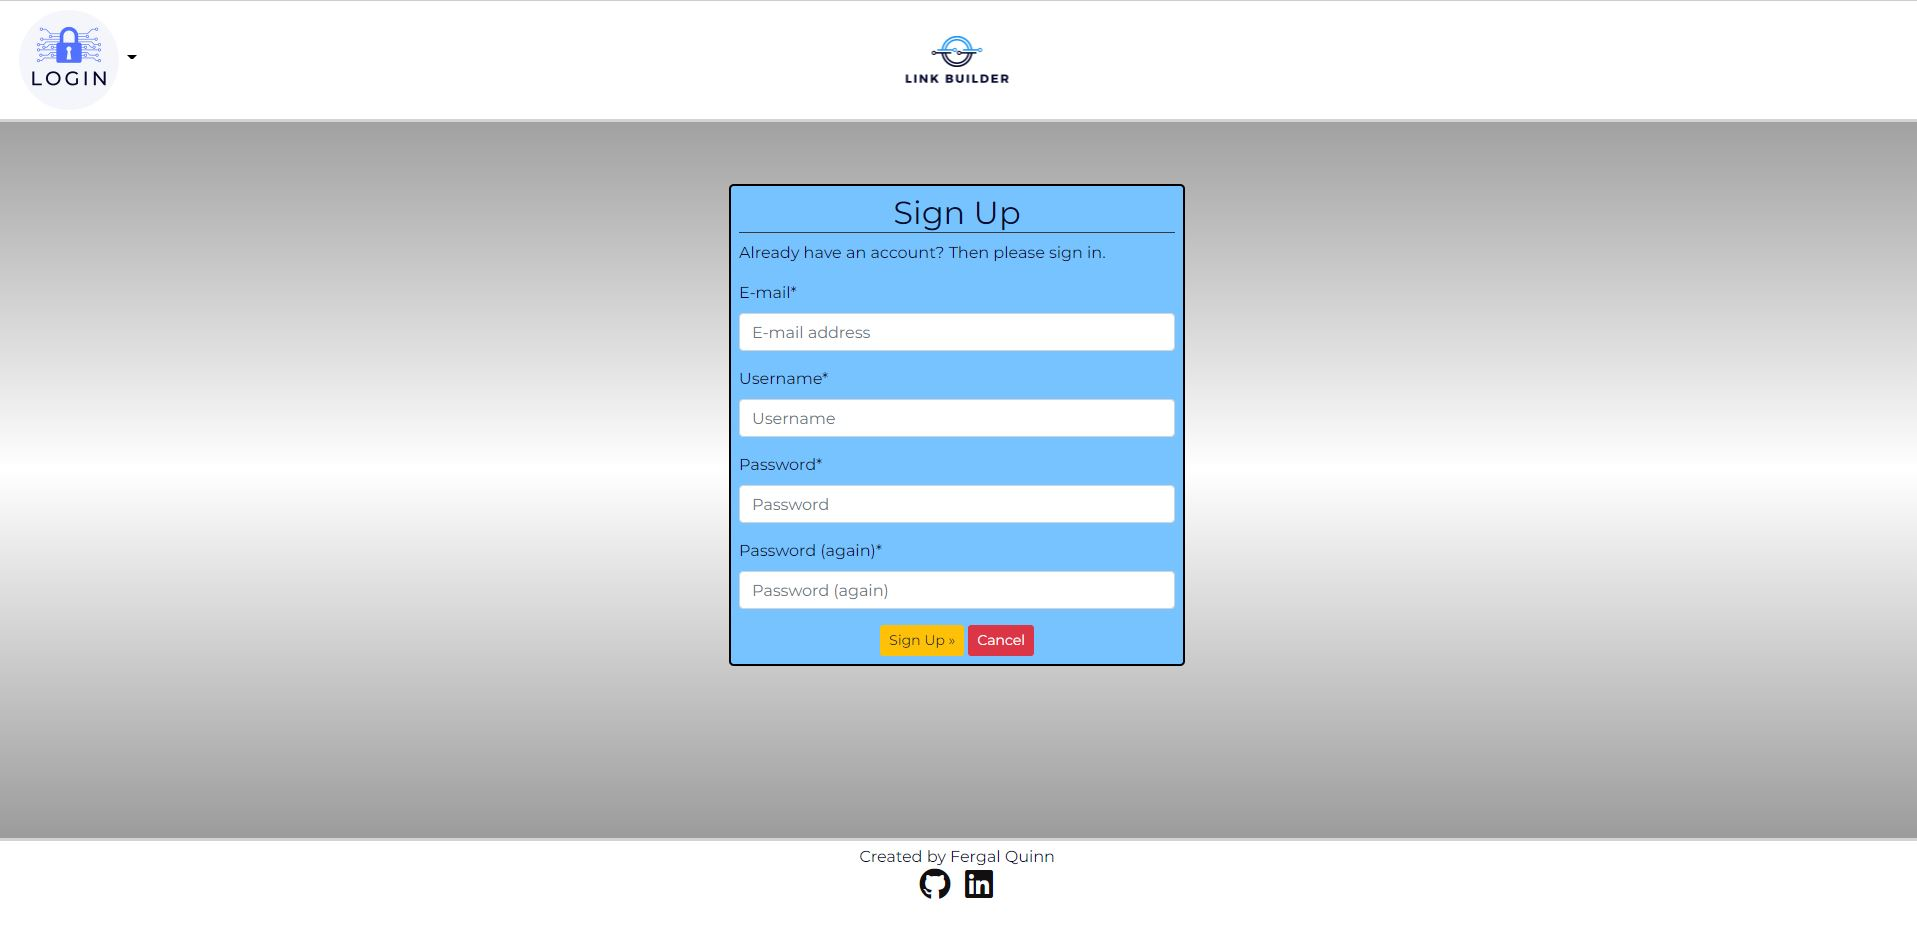
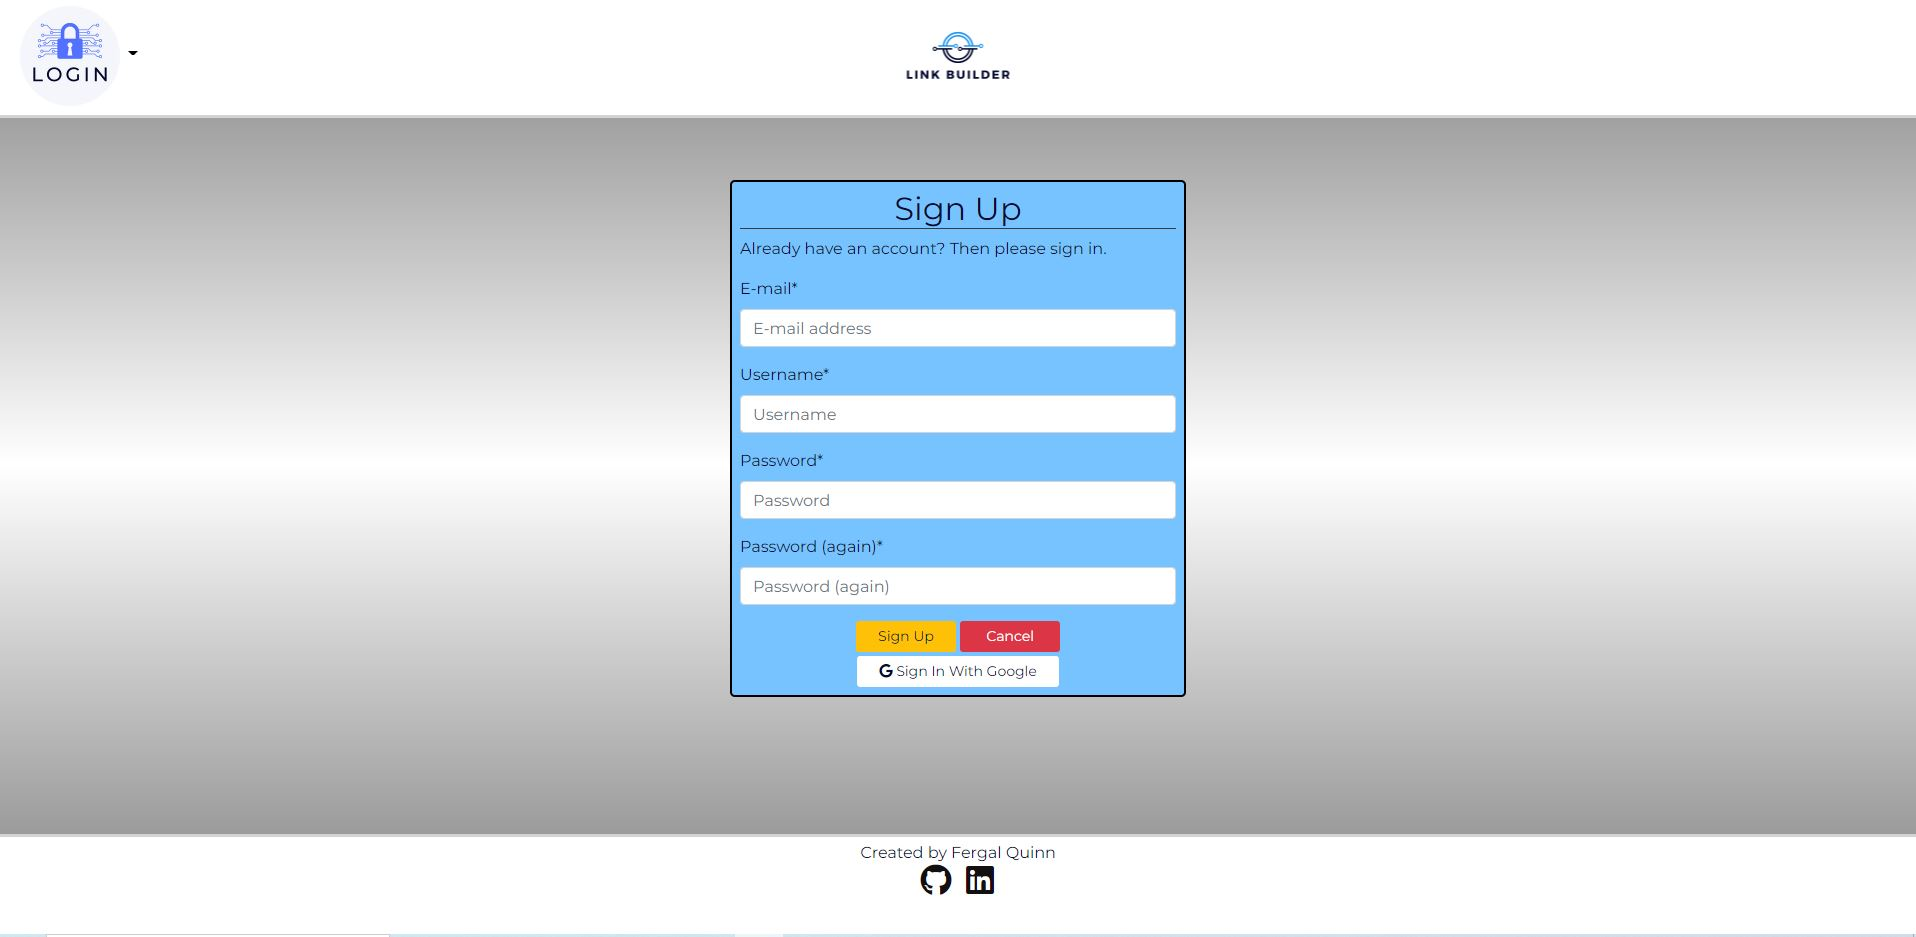
Include Sign-Up with Google on Sign-Up Page

diff --git a/templates/account/signup.html b/templates/account/signup.html
@@ -1,11 +1,21 @@
 {% extends "links/base.html" %}
 {% load crispy_forms_tags %}
 {% load i18n %}
+{% load account socialaccount %}
 
 {% block head_title %}{% trans "Signup" %}{% endblock %}
 
 {% block content %}
+<style>
+  .btn {
+    width: 100px;
+  }
 
+  #google {
+    width: 202px;
+    background-color: white;
+  }
+</style>
 <div class="container">
   <div class="row">
     <div class="mx-auto mt-5 jumbotron">
@@ -21,8 +31,19 @@
         <input type="hidden" name="{{ redirect_field_name }}" value="{{ redirect_field_value }}" />
         {% endif %}
 
-        <div class="text-center"><button class="btn btn-sm btn-warning" type="submit">{% trans "Sign Up" %} </button>
-        <a class="btn btn-sm btn-danger" href="{{ request.META.HTTP_REFERER }}">{% trans 'Cancel' %}</a></div>
+        <div class="row">
+          <div class="col text-center mb-1">
+            <div class="text-center"><button class="btn btn-sm btn-warning" type="submit">{% trans "Sign Up" %}
+              </button>
+              <a class="btn btn-sm btn-danger" href="{{ request.META.HTTP_REFERER }}">{% trans 'Cancel' %}</a></div>
+          </div>
+        </div>
+        <div class="row">
+          <div class="col text-center">
+            <a href="{% provider_login_url 'google' %}" class="btn btn-sm btn" id="google"><i class="fab fa-google"></i>
+              Sign Un With Google</a>
+          </div>
+        </div>
       </form>
     </div>
   </div>

diff --git a/README.md b/README.md
@@ -186,7 +186,7 @@ When a user lands on the root url, they are displayed with a page that lets the 
 ![Home Page Instructions](docs/images/features/homepage-instructions.jpg)
 
 #### ***Register Page***
-The sign-up page is simple with a color scheme in keeping with the rest of the site. It includes a cancel button in case the user does not wish to proceed. It uses the in-built django validation with an additional requirement of email address. 
+The sign-up page is simple with a color scheme in keeping with the rest of the site. It includes a cancel button in case the user does not wish to proceed. It uses the in-built django validation with an additional requirement of email address. There is also the option to Sign-Up with Google.
 
 ![Register Page](docs/images/features/sign-up-page.jpg)
 
